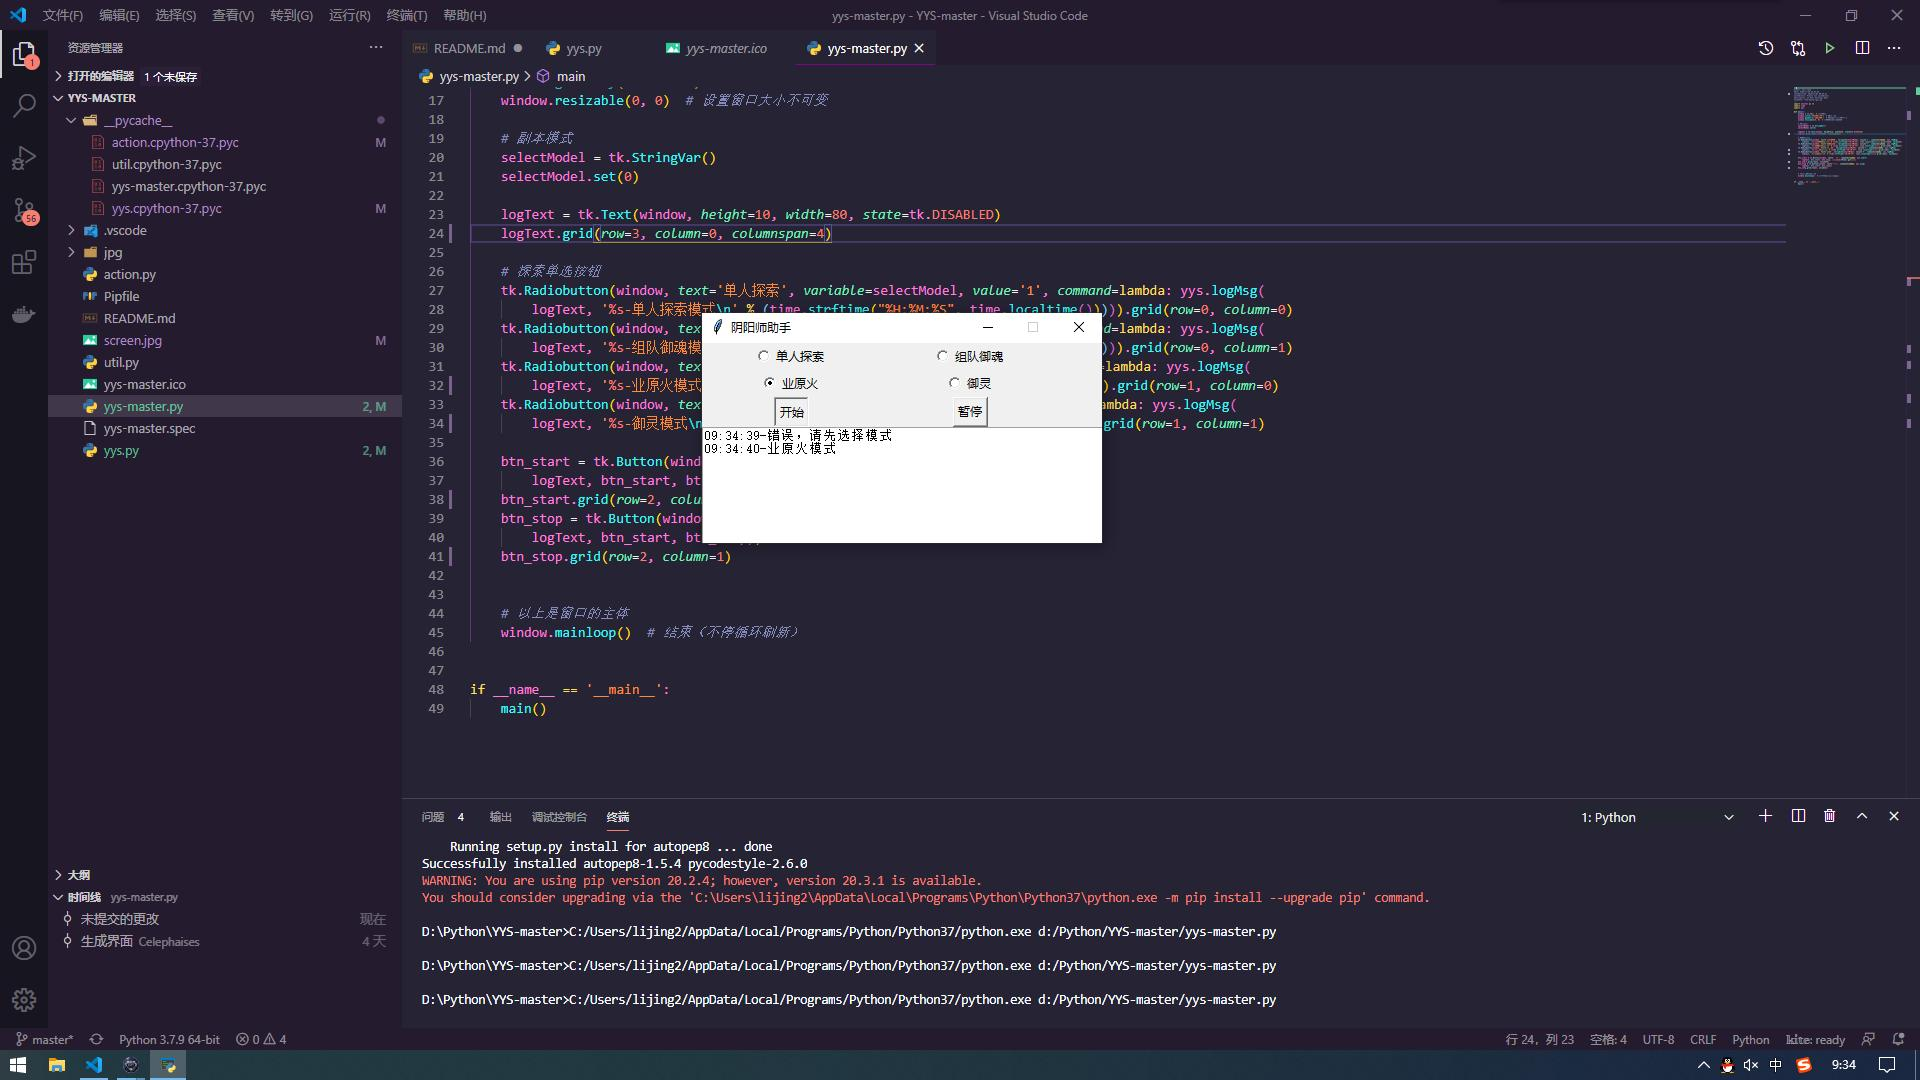
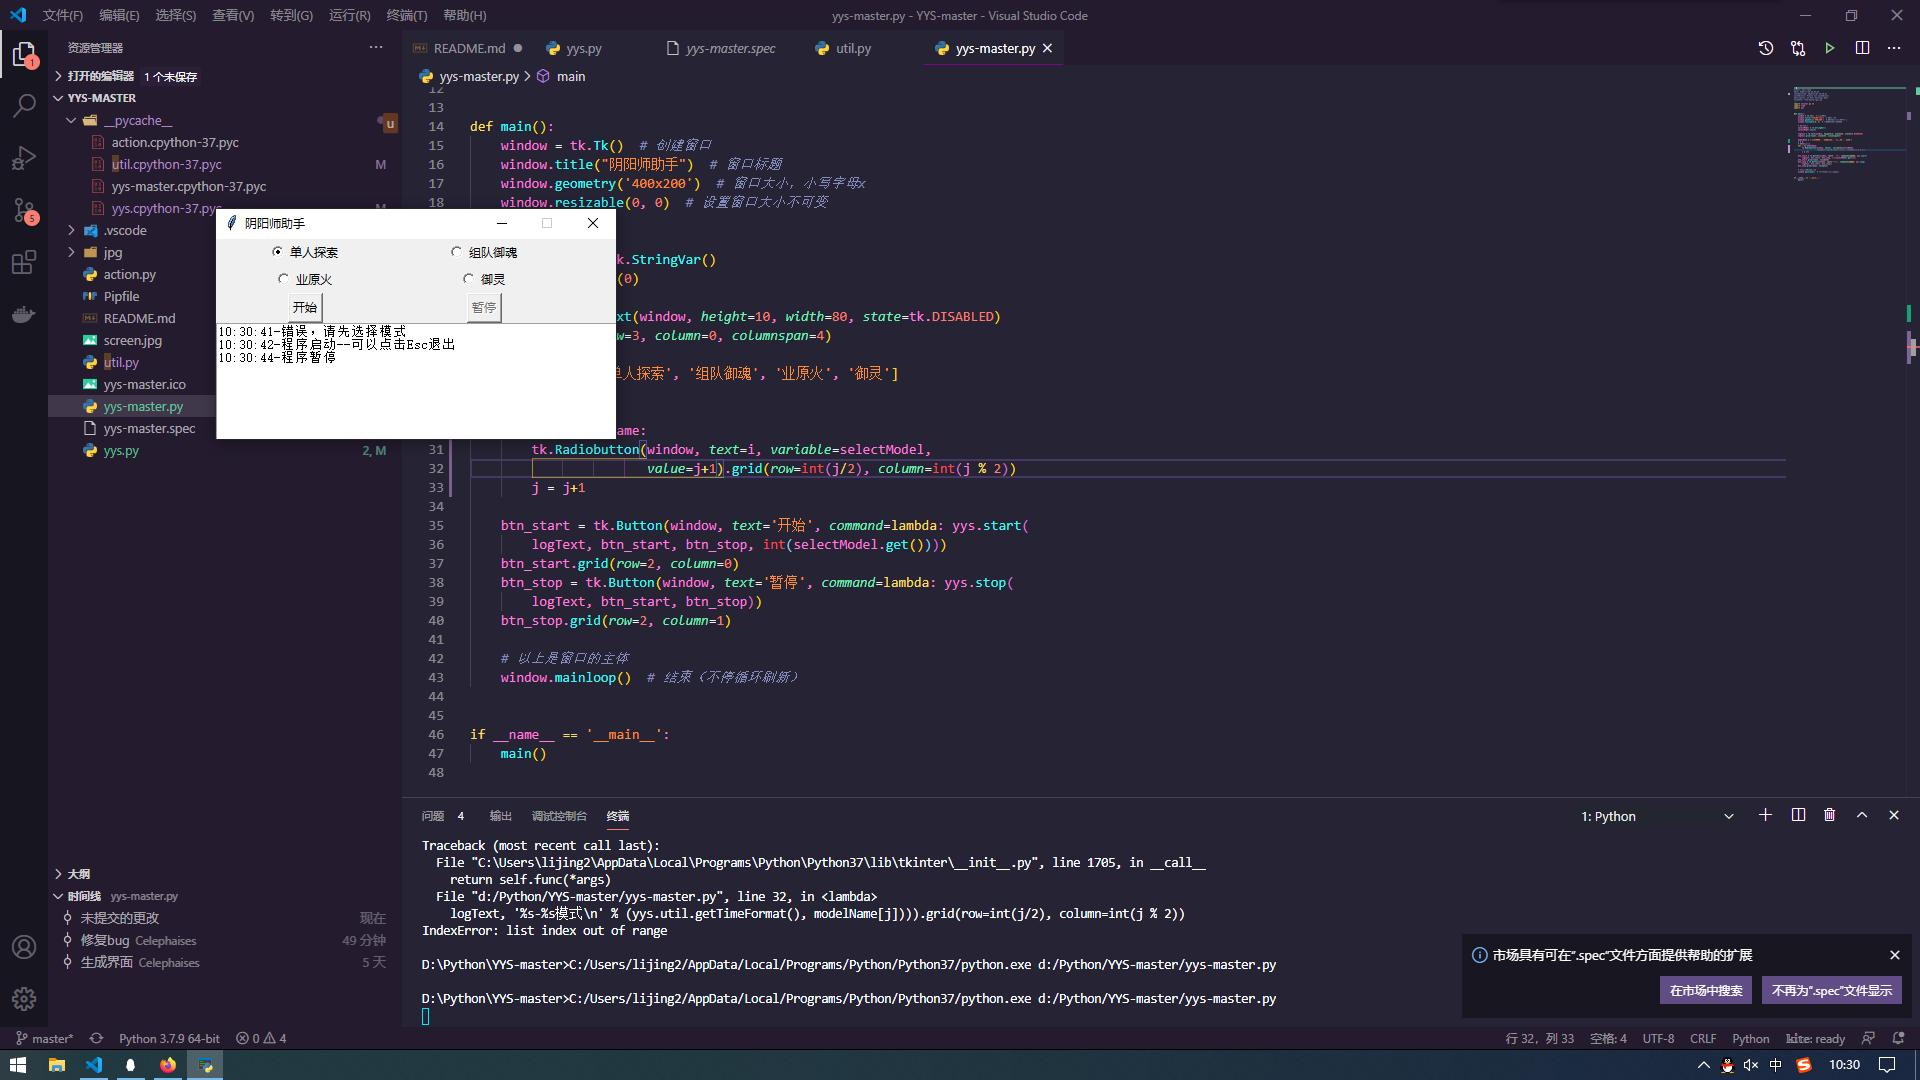
增加体力计算

diff --git a/yys-master.py b/yys-master.py
@@ -1,7 +1,7 @@
 '''
 Author: your name
 Date: 2020-11-10 10:43:46
-LastEditTime: 2020-12-07 09:38:20
+LastEditTime: 2020-12-09 17:39:35
 LastEditors: Please set LastEditors
 Description: In User Settings Edit
 FilePath: \YYS-master\gui.py
@@ -14,7 +14,7 @@ import yys
 def main():
     window = tk.Tk()  # 创建窗口
     window.title("阴阳师助手")  # 窗口标题
-    window.geometry('400x200')  # 窗口大小，小写字母x
+    window.geometry('400x400')  # 窗口大小，小写字母x
     window.resizable(0, 0)  # 设置窗口大小不可变
 
     # 副本模式
@@ -22,25 +22,38 @@ def main():
     selectModel.set(0)
 
     logText = tk.Text(window, height=10, width=80, state=tk.DISABLED)
-    logText.grid(row=3, column=0, columnspan=4)
 
+    modelName = ['单人探索', '组队御魂', '业原火', '御灵', '结界突破']
+    j = 0
     # 探索单选按钮
-    tk.Radiobutton(window, text='单人探索', variable=selectModel, value='1', command=lambda: yys.logMsg(
-        logText, '%s-单人探索模式\n' % (time.strftime("%H:%M:%S", time.localtime())))).grid(row=0, column=0, sticky=tk.W)
-    tk.Radiobutton(window, text='组队御魂', variable=selectModel, value='2', command=lambda: yys.logMsg(
-        logText, '%s-组队御魂模式\n' % (time.strftime("%H:%M:%S", time.localtime())))).grid(row=0, column=1, sticky=tk.W)
-    tk.Radiobutton(window, text='业原火', variable=selectModel, value='3', command=lambda: yys.logMsg(
-        logText, '%s-业原火模式\n' % (time.strftime("%H:%M:%S", time.localtime())))).grid(row=1, column=0, sticky=tk.W)
-    tk.Radiobutton(window, text='御灵', variable=selectModel, value='4', command=lambda: yys.logMsg(
-        logText, '%s-御灵模式\n' % (time.strftime("%H:%M:%S", time.localtime())))).grid(row=1, column=1, sticky=tk.W)
+    for i in modelName:
+        tk.Radiobutton(window, text=i, variable=selectModel,
+                       value=j+1).grid(row=int(j/2), column=int(j % 2))
+        j = j+1
+    if j % 2 != 0:
+        j = j + 1
 
+    physicalLimit = tk.StringVar()
+    physicalLimit.set(0)
+    limitLable = tk.Label(window, text='体力限制：')
+    limitText = tk.Entry(window, textvariable=physicalLimit)
+    limitLable.grid(row=int(j / 2), column=0)
+    limitText.grid(row=int(j / 2), column=1)
+    j = j + 2
+    costLabel = tk.Label(window, text='体力消耗：')
+    costText = tk.Entry(window, textvariable=0, state=tk.DISABLED)
+    costLabel.grid(row=int(j / 2), column=0)
+    costText.grid(row=int(j / 2), column=1)
+    j = j+2
     btn_start = tk.Button(window, text='开始', command=lambda: yys.start(
-        logText, btn_start, btn_stop, int(selectModel.get())))
-    btn_start.grid(row=2, column=0)
+        logText, costText, btn_start, btn_stop, int(selectModel.get()),  int(physicalLimit.get())))
+    btn_start.grid(row=int(j/2), column=0)
     btn_stop = tk.Button(window, text='暂停', command=lambda: yys.stop(
         logText, btn_start, btn_stop))
-    btn_stop.grid(row=2, column=1)
+    btn_stop.grid(row=int(j / 2), column=1)
 
+    j = j+2
+    logText.grid(row=int(j/2), column=0, columnspan=4)
     # 以上是窗口的主体
     window.mainloop()  # 结束（不停循环刷新）
 

diff --git a/yys.py b/yys.py
@@ -1,7 +1,7 @@
 '''
 Author: your name
 Date: 2020-11-10 16:26:58
-LastEditTime: 2020-12-07 09:39:53
+LastEditTime: 2020-12-09 17:37:27
 LastEditors: Please set LastEditors
 Description: In User Settings Edit
 FilePath: \YYS-master\guifuncton.py
@@ -22,8 +22,10 @@ import util
 
 stopKey = 'esc'
 
-global runFlag, log
+global runFlag, log, PhysicalLimit, count, Btn_start, Btn_stop
 runFlag = False
+PhysicalLimit = 0
+count = 0
 
 
 def logMsg(logText, msg):
@@ -33,25 +35,34 @@ def logMsg(logText, msg):
     logText.see(tk.END)
 
 
+def changeCost(costText, cost):
+    costText.config(state=tk.NORMAL)
+    costText.delete(0, tk.END)
+    costText.insert(0, cost)
+    costText.config(state=tk.DISABLED)
+
+
 def keyListener(stopKey, logText, btn_start, btn_stop):
     keyboard.wait(stopKey)
     stop(logText, btn_start, btn_stop)
 
 
 def getModelName(num):
-    numbers = {
-        '1': "单人探索",
-        '2': "组队御魂",
-    }
-    return numbers.get(num, None)
+    numbers = ["单人探索", "组队御魂", "业原火", "御灵"]
+    return numbers[num]
 
 
-def start(logText, btn_start, btn_stop, selectModel):
-    mode = [0, tansuo, huntu, yeyuanhuo, yuling]
+def start(logText, costText, btn_start, btn_stop, selectModel, physicalLimit):
+    mode = [0, tansuo, huntu, yeyuanhuo, yuling, jiejietupo]
     if selectModel != 0:
-        global runFlag, log
+        global runFlag, log, cost, PhysicalLimit, Btn_start, Btn_stop, count
         log = logText
+        cost = costText
+        Btn_start = btn_start
+        Btn_stop = btn_stop
         runFlag = True
+        if physicalLimit != 0:
+            PhysicalLimit = physicalLimit
         comand = mode[selectModel]
         worker = threading.Thread(target=comand)
         worker.setDaemon(True)
@@ -120,7 +131,13 @@ def tansuo():
                         t = random.randint(15, 30) / 100
                         time.sleep(t)
                         break
-            util.checkMan()
+            if util.checkMan():
+                count = count + 3
+            if count >= PhysicalLimit:
+                msg = '%s-已消耗体力-%d 程序暂停\n' % (time.strftime("%H:%M:%S",
+                                                            time.localtime()), count)
+                logMsg(log, msg)
+                stop(log, Btn_start, Btn_stop)
         for i in ['28', 'tansuo', 'ying', 'jiangli', 'jixu', 'jujue']:
             screen = util.getScreen()
             result = util.click(screen, i)
@@ -179,3 +196,18 @@ def yuling():
                 continue
             else:
                 continue
+
+
+########################################################
+# 结界突破
+# 此功能未完善
+
+
+def jiejietupo():
+    global runFlag, log, cost, PhysicalLimit, Btn_start, Btn_stop, count
+    while runFlag:
+        time.sleep(3)
+        count = count + 10
+        changeCost(cost, count)
+        if count >= PhysicalLimit:
+            stop(log, Btn_start, Btn_stop)

diff --git a/action.py b/action.py
@@ -1,7 +1,7 @@
 '''
 Author: your name
 Date: 2020-10-31 08:46:46
-LastEditTime: 2020-11-11 17:30:39
+LastEditTime: 2020-12-08 15:53:56
 LastEditors: Please set LastEditors
 Description: In User Settings Edit
 FilePath: \YYS-master\action.py
@@ -53,7 +53,7 @@ def locate(target, want, show=0, msg=0):
 
 # 按【文件内容，匹配精度，名称】格式批量聚聚要查找的目标图片，精度统一为0.85，名称为文件名
 def load_imgs():
-    mubiao = {}
+    want = {}
     path = os.getcwd() + '/jpg'
     file_list = os.listdir(path)
 
@@ -61,9 +61,9 @@ def load_imgs():
         name = file.split('.')[0]
         file_path = path + '/' + file
         a = [cv2.imread(file_path), 0.85, name]
-        mubiao[name] = a
+        want[name] = a
 
-    return mubiao
+    return want
 
 # 蜂鸣报警器，参数n为鸣叫资料
 

diff --git a/util.py b/util.py
@@ -74,7 +74,7 @@ def checkMan():
                                 pyautogui.dragTo(xy[0]+30, xy[1], 0.5)
                 man = getManXy()
     screen = getScreen()
-    click(screen, 'zhunbei')
+    return click(screen, 'zhunbei')
 
 
 def click(screen, s):
@@ -122,3 +122,7 @@ def getScreen():
     c, d = downright
     screen = screen[b:d, a:c]
     return screen
+
+
+def getTimeFormat():
+    return time.strftime("%H:%M:%S", time.localtime())
